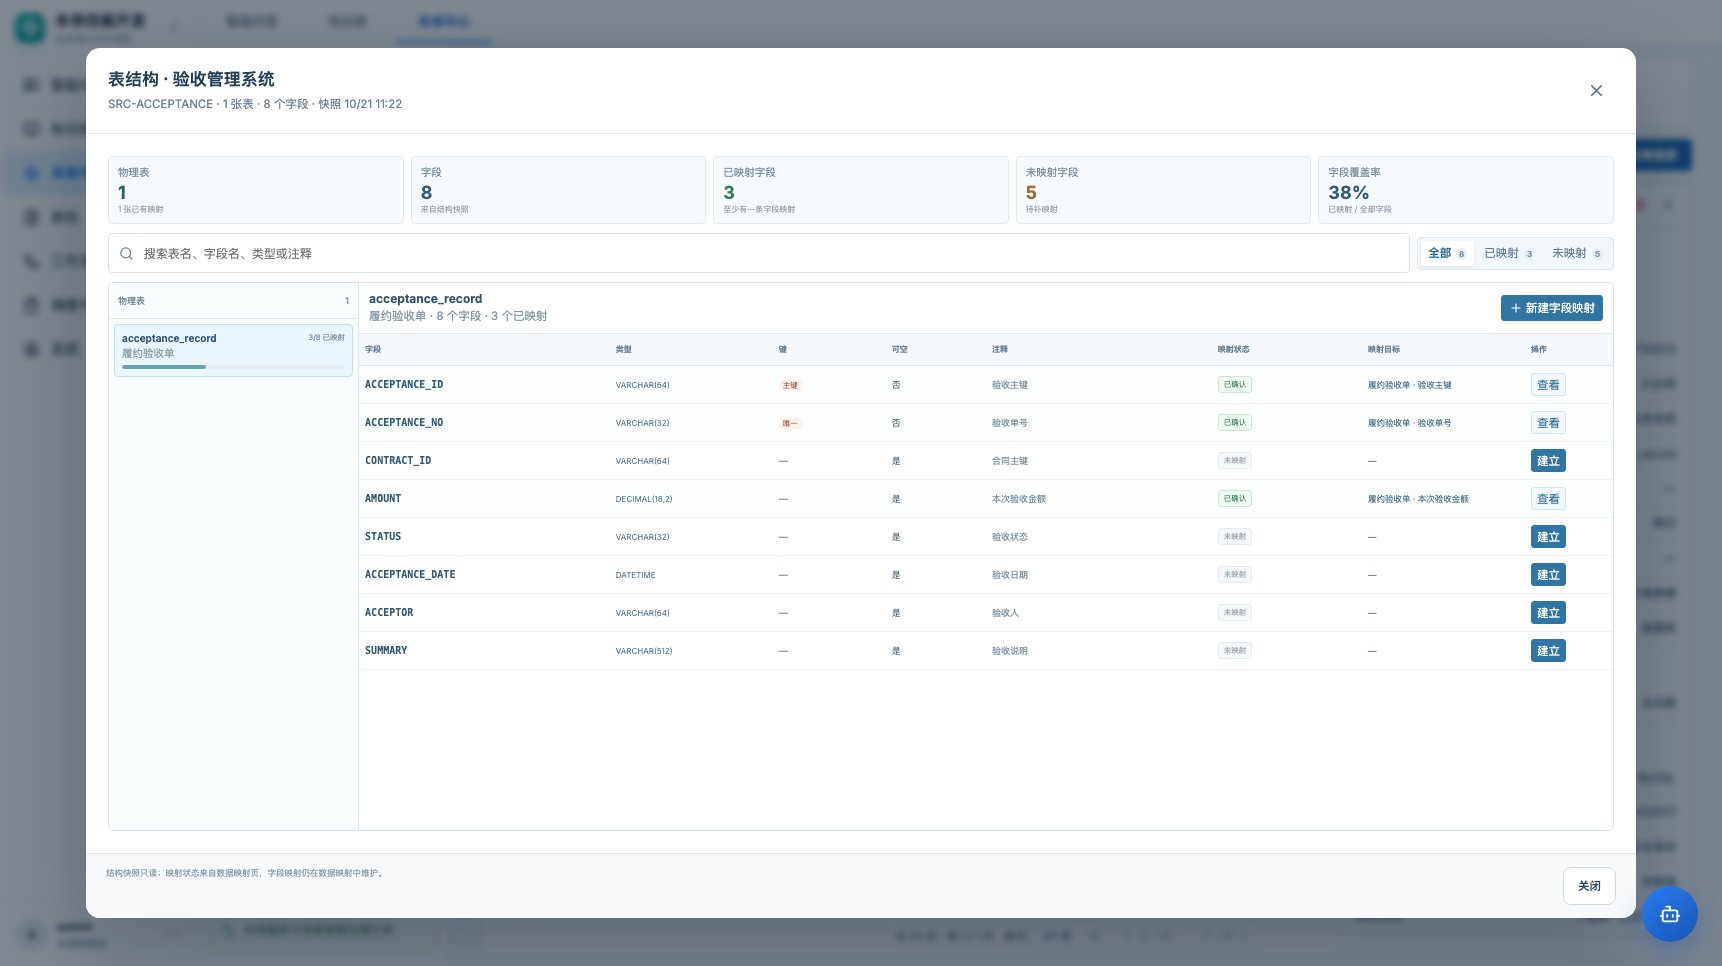
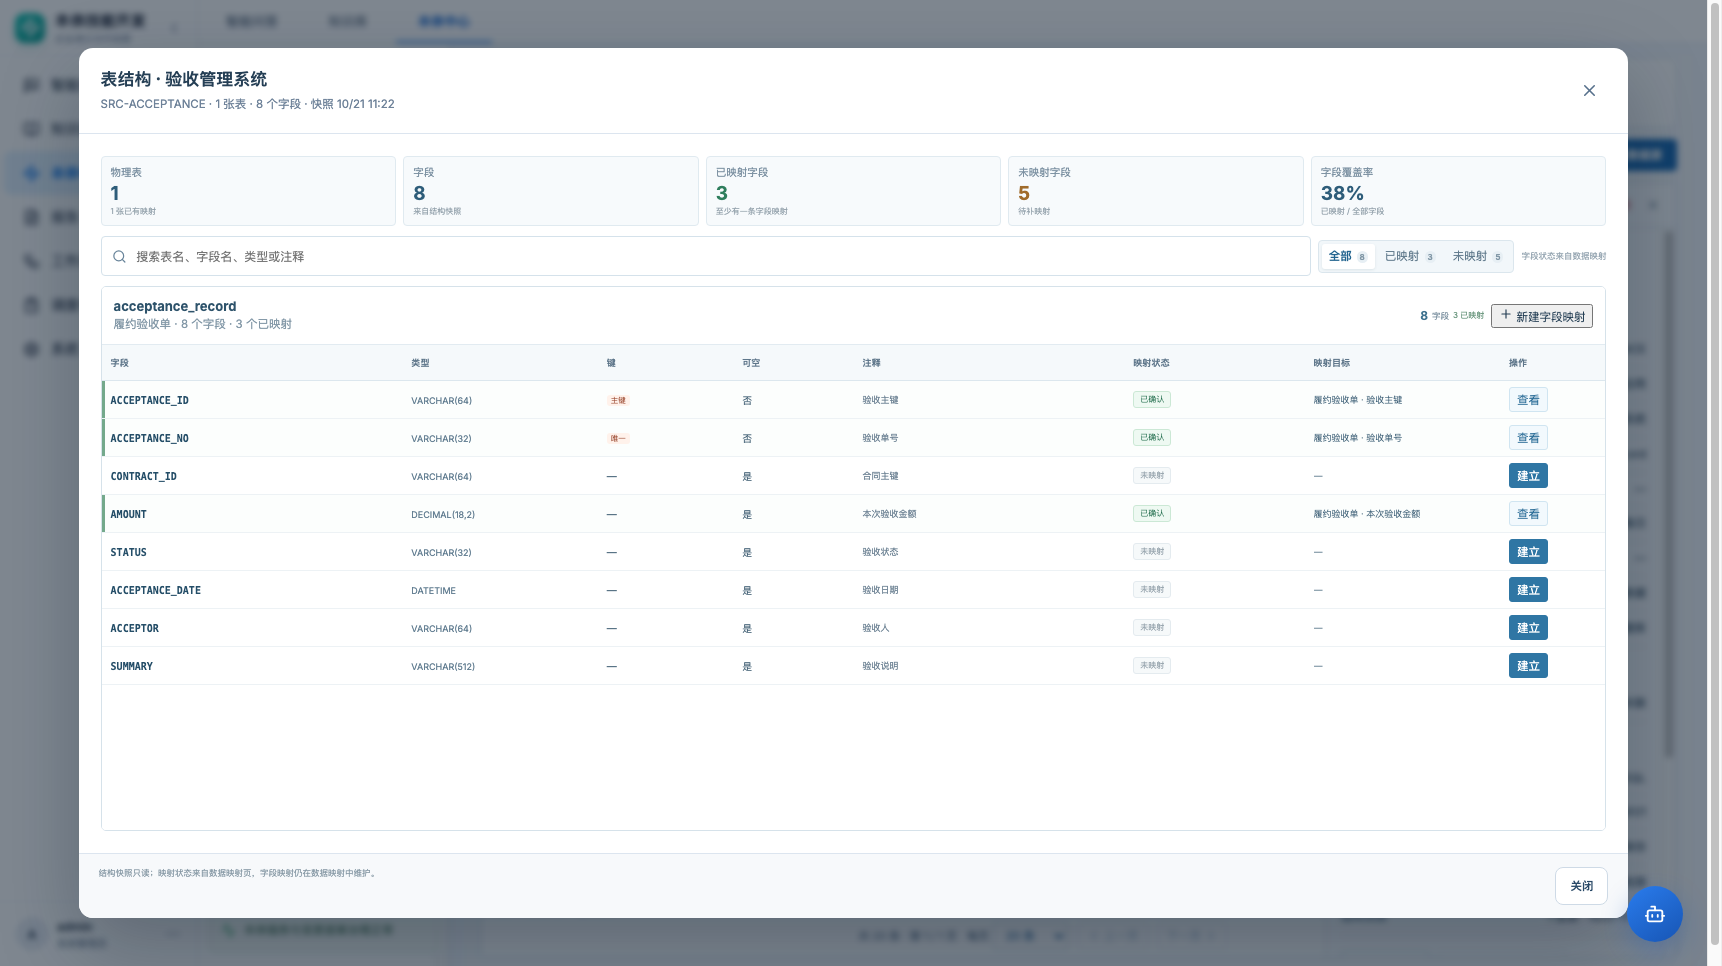
style: refine schema browser into full-width data table

diff --git a/frontend/src/pages/DataMappingStudio.jsx b/frontend/src/pages/DataMappingStudio.jsx
@@ -149,8 +149,9 @@ function SchemaDetailModal({ source, tables, mappings, capturedAt, getOrigin, ta
           <button type="button" className={mappingFilter === 'mapped' ? 'active' : ''} onClick={() => setMappingFilter('mapped')}>已映射 <b>{mappedFields}</b></button>
           <button type="button" className={mappingFilter === 'unmapped' ? 'active' : ''} onClick={() => setMappingFilter('unmapped')}>未映射 <b>{Math.max(0, totalFields - mappedFields)}</b></button>
         </div>
+        <span className="schema-toolbar-note">字段状态来自数据映射</span>
       </div>
-      <div className="schema-browser-layout">
+      <div className={`schema-browser-layout ${tables.length <= 1 ? 'single-table' : ''}`}>
         <aside className="schema-table-list">
           <header><span>物理表</span><b>{visibleTables.length}</b></header>
           <div className="schema-table-scroll">{visibleTables.map((table) => <button type="button" key={table.name} className={activeTable?.name === table.name ? 'active' : ''} onClick={() => setSelectedTable(table.name)}>
@@ -161,7 +162,7 @@ function SchemaDetailModal({ source, tables, mappings, capturedAt, getOrigin, ta
         </aside>
         <section className="schema-field-panel">
           {!activeTable ? <div className="schema-empty"><TableProperties size={26} /><strong>没有匹配的表结构</strong><p>调整搜索关键词或映射状态筛选。</p></div> : <>
-            <header><div><h3>{activeTable.name}</h3><p>{activeTable.comment || '暂无表注释'} · {activeTable.columns.length} 个字段 · {activeTable.mapped} 个已映射</p></div><button type="button" onClick={() => onCreateMapping(activeTable, null)}><Plus size={14} /> 新建字段映射</button></header>
+            <header><div><h3>{activeTable.name}</h3><p>{activeTable.comment || '暂无表注释'} · {activeTable.columns.length} 个字段 · {activeTable.mapped} 个已映射</p></div><div className="schema-field-head-actions"><span className="schema-field-count"><b>{activeTable.columns.length}</b> 字段 <em>{activeTable.mapped} 已映射</em></span><button type="button" onClick={() => onCreateMapping(activeTable, null)}><Plus size={14} /> 新建字段映射</button></div></header>
             <div className="schema-field-table-wrap"><table className="schema-field-table"><colgroup><col style={{ width: '20%' }} /><col style={{ width: '13%' }} /><col style={{ width: '9%' }} /><col style={{ width: '8%' }} /><col style={{ width: '18%' }} /><col style={{ width: '12%' }} /><col style={{ width: '13%' }} /><col style={{ width: '7%' }} /></colgroup><thead><tr><th>字段</th><th>类型</th><th>键</th><th>可空</th><th>注释</th><th>映射状态</th><th>映射目标</th><th>操作</th></tr></thead><tbody>
               {fields.map((column) => {
                 const entries = fieldEntries(activeTable, column);

diff --git a/frontend/src/styles.css b/frontend/src/styles.css
@@ -3616,3 +3616,42 @@ html, body, #root {
 .graph-context-menu button.ai small { margin-left:auto; padding-left:10px; color:#9a8bb8; font-size:9px; font-weight:400; }
 .btn.ai { color:#fff; background:#6a50ad; border-color:#6a50ad; }
 .btn.ai:hover { background:#584196; border-color:#584196; }
+
+/* 表结构浏览器：向知识库数据表靠拢的密度与层级 */
+.schema-browser-layout.single-table { grid-template-columns:minmax(0,1fr); }
+.schema-browser-layout.single-table .schema-table-list { display:none; }
+.schema-toolbar-note { margin-left:auto; color:#96a6b2; font-size:8.5px; white-space:nowrap; }
+.schema-field-head-actions { display:flex; align-items:center; gap:7px; }
+.schema-field-count { display:inline-flex; align-items:center; gap:4px; color:#7e93a2; font-size:8.5px; white-space:nowrap; }
+.schema-field-count b { color:#3d718e; font-size:12px; }
+.schema-field-count em { color:#6f9a82; font-size:8px; font-style:normal; }
+.schema-field-panel > header { min-height:58px; padding:8px 12px; background:#fff; }
+.schema-field-panel h3 { font-size:13px; }
+.schema-field-panel p { font-size:9px; }
+.schema-field-table th { height:36px; padding:6px 9px; color:#5e768a; background:#f5f9fb; font-size:9px; letter-spacing:.02em; }
+.schema-field-table td { height:37px; padding:6px 9px; color:#486579; font-size:10px; }
+.schema-field-table code { color:#254e68; font-size:10px; }
+.schema-field-table tr.mapped td:first-child { box-shadow:inset 3px 0 #74a98c; }
+.schema-field-table tr.mapped td { background:#fcfefd; }
+.schema-field-table tr:hover td { background:#f2f9fd; }
+.schema-field-table tr.mapped:hover td { background:#f5fbf7; }
+.schema-field-table .schema-type { color:#668194; font-size:9px; }
+.schema-field-table .schema-comment { color:#708596; font-size:9px; }
+.schema-field-table .schema-target { color:#3e6077; font-size:9px; }
+.schema-field-table .schema-map-state { font-size:8px; padding:2px 6px; }
+.schema-field-table .schema-view, .schema-field-table .schema-create { min-height:25px; padding:0 7px; font-size:8.5px; }
+.schema-table-list > header { min-height:39px; padding:8px 10px; font-size:9.5px; }
+.schema-table-scroll { padding:6px; }
+.schema-table-scroll button { padding:8px; }
+.schema-table-scroll strong { font-size:10.5px; }
+.schema-table-scroll small { font-size:8.5px; }
+.schema-table-scroll em { font-size:8px; }
+.schema-browser-stats > div { min-height:56px; }
+.schema-browser-stats b { font-size:19px; }
+.schema-field-table-wrap { background:#fff; }
+.schema-browser-modal { gap:10px; }
+@media (max-width:760px) {
+  .schema-toolbar-note { display:none; }
+  .schema-field-head-actions { gap:4px; }
+  .schema-field-count { display:none; }
+}

diff --git a/docs/prd/09-PRD-数据源数据映射与映射图谱.md b/docs/prd/09-PRD-数据源数据映射与映射图谱.md
@@ -132,6 +132,7 @@
 #### 字段与操作
 
 - 左侧物理表：表名、注释、已映射字段/总字段、覆盖率进度条。
+- 单表数据源自动收起左侧表列表，字段表全宽展示；多表数据源保留左侧表切换。
 - 右侧字段表：
   - 字段名、数据类型、主键/唯一、可空、注释；
   - 映射状态（已确认/设计中/待确认/已停用/未映射）；
@@ -348,6 +349,7 @@ GET  /api/ontologies/{id}/releases/{releaseId}/snapshot
 | M20 | 字段显示映射状态、目标对象属性，支持全部/已映射/未映射筛选 |
 | M21 | 未映射字段“建立”带入来源/表/字段打开新建映射 |
 | M22 | 已映射字段“查看”跳到数据映射并选中对应映射 |
+| M23 | 单表数据源自动隐藏表列表，字段表全宽；多表保留表切换 |
 
 ## 10. 后续阶段
 
